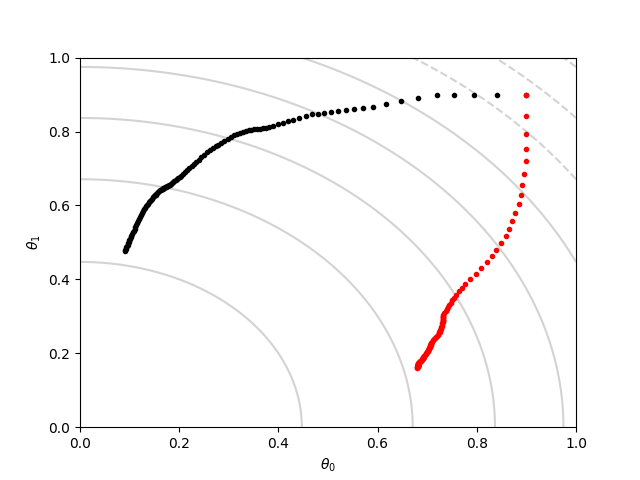
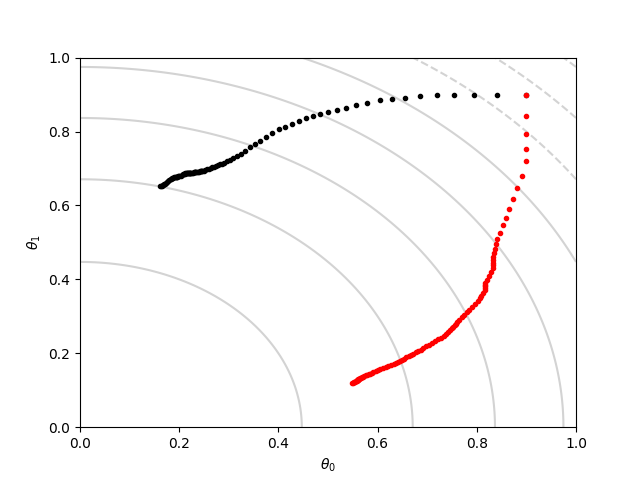
Refactor  PBTCluster.train() of to make it easier to swith between configurations.

Changed region(s): [[0.5312, 0.3438, 0.8438, 0.8125], [0.1875, 0.1875, 0.6562, 0.5312]]

diff --git a/pbt_cluster.py b/pbt_cluster.py
@@ -8,10 +8,12 @@ import numpy as np
 from constants import WorkerInstruction
 
 class PBTCluster:
-    def __init__(self, pop_size, comm, master_rank):
+    def __init__(self, pop_size, comm, master_rank, do_exploit=True, do_explore=True):
         self.pop_size = pop_size
         self.comm = comm
         self.master_rank = master_rank
+        self.do_exploit = do_exploit
+        self.do_explore = do_explore
 
         self.build_all_graphs()
         self.initialize_all_graphs()
@@ -34,7 +36,6 @@ class PBTCluster:
             if i != self.master_rank:
                 begin = num_workers_sent * graphs_per_worker
                 end = min(graphs_per_worker, graphs_to_make) + begin
-                print begin, end
                 hparams_for_the_worker = all_hparams_need_training[begin: end]
                 reqs.append(self.comm.isend((WorkerInstruction.ADD_GRAPHS, hparams_for_the_worker, begin), dest=i))
                 graphs_to_make -= graphs_per_worker
@@ -59,12 +60,25 @@ class PBTCluster:
             req.wait()
 
     def train(self, until_step_num):
-        reqs = []
-        for i in range(0, self.comm.Get_size()):
-            if i != self.master_rank:
-                reqs.append(self.comm.isend((WorkerInstruction.TRAIN, until_step_num), dest=i))
-        for req in reqs:
-            req.wait()
+        round = 0
+        while until_step_num > 0:
+            print '\nRound {}'.format(round)
+            steps_to_train = min(4, until_step_num)
+
+            reqs = []
+            for i in range(0, self.comm.Get_size()):
+                if i != self.master_rank:
+                    reqs.append(self.comm.isend((WorkerInstruction.TRAIN, steps_to_train), dest=i))
+            for req in reqs:
+                req.wait()
+
+            until_step_num -= 4
+            round += 1
+
+            if self.do_exploit:
+                self.exploit()
+            if self.do_explore:
+                self.explore()
 
     def exploit(self):
         reqs = []
@@ -120,7 +134,7 @@ class PBTCluster:
         for req in reqs:
             req.wait()
 
-    def report_plot(self):
+    def report_plot_for_toy_model(self):
         training_log = self.get_all_training_log()
 
         linspace_x = np.linspace(start=0, stop=1, num=100)
@@ -137,9 +151,17 @@ class PBTCluster:
         pyplot.plot(zip(*training_log[1])[0], zip(*training_log[1])[1], '.', color='red')
         pyplot.contour(x, y, z, colors='lightgray')
         #pyplot.show()
-        pyplot.savefig('explore_only' + '.png')
 
-        return
+        if self.do_exploit and self.do_explore:
+            out_file_name = 'PBT.png'
+        elif self.do_exploit and not self.do_explore:
+            out_file_name = 'exploit_only.png'
+        elif not self.do_exploit and self.do_explore:
+            out_file_name = 'explore_only.png'
+        else:
+            out_file_name = 'grid_search.png'
+        pyplot.savefig(out_file_name)
+        print 'Writing results to {}'.format(out_file_name)
 
     def get_all_training_log(self):
         reqs = []

diff --git a/main_manager.py b/main_manager.py
@@ -17,16 +17,18 @@ comm = MPI.COMM_WORLD
 rank = comm.Get_rank()
 master_rank = 0
 if rank == master_rank:
-    cluster = PBTCluster(2, comm, master_rank)
-    time.sleep(1)
-    for i in range(30):
-        print '\nRound {}'.format(i)
-        cluster.train(4)
-        #cluster.exploit()
-        cluster.explore()
-        #time.sleep(0.5) #for better printing order
+    #The PBT case
+    cluster = PBTCluster(2, comm, master_rank, do_exploit=True, do_explore=True)
+    #The exploit only case
+    #cluster = PBTCluster(2, comm, master_rank, do_exploit=True, do_explore=False)
+    #The explore only case(still dirty, needs to change the code around line 78 to make this work)
+    #cluster = PBTCluster(2, comm, master_rank, do_exploit=False, do_explore=True)
+    #The grid search case
+    #cluster = PBTCluster(2, comm, master_rank, do_exploit=False, do_explore=False)
 
-    cluster.report_plot()
+    cluster.train(100)
+
+    cluster.report_plot_for_toy_model()
     cluster.kill_all_workers()
 else:
     config = tf.ConfigProto()
@@ -48,7 +50,6 @@ else:
                 #new_graph = SimpleNet(sess, i, hparam)
                 new_graph = ToyModel(sess, i, hparam)
                 worker_graphs.append(new_graph)
-                print hparam
         elif inst == WorkerInstruction.INIT:
             print('[{}]Initializing graphs'.format(rank))
             for g in worker_graphs:
@@ -73,7 +74,7 @@ else:
                         g.need_explore = True
         elif inst == WorkerInstruction.EXPLORE:
             for g in worker_graphs:
-                g.need_explore = True # dirty fix to generate the explore only graph
+                #g.need_explore = True # dirty fix to generate the explore only graph
                 if g.need_explore:
                     print '[{}]Exploring graph {}'.format(rank, g.cluster_id)
                     g.perturb_hparams_and_update_graph()
